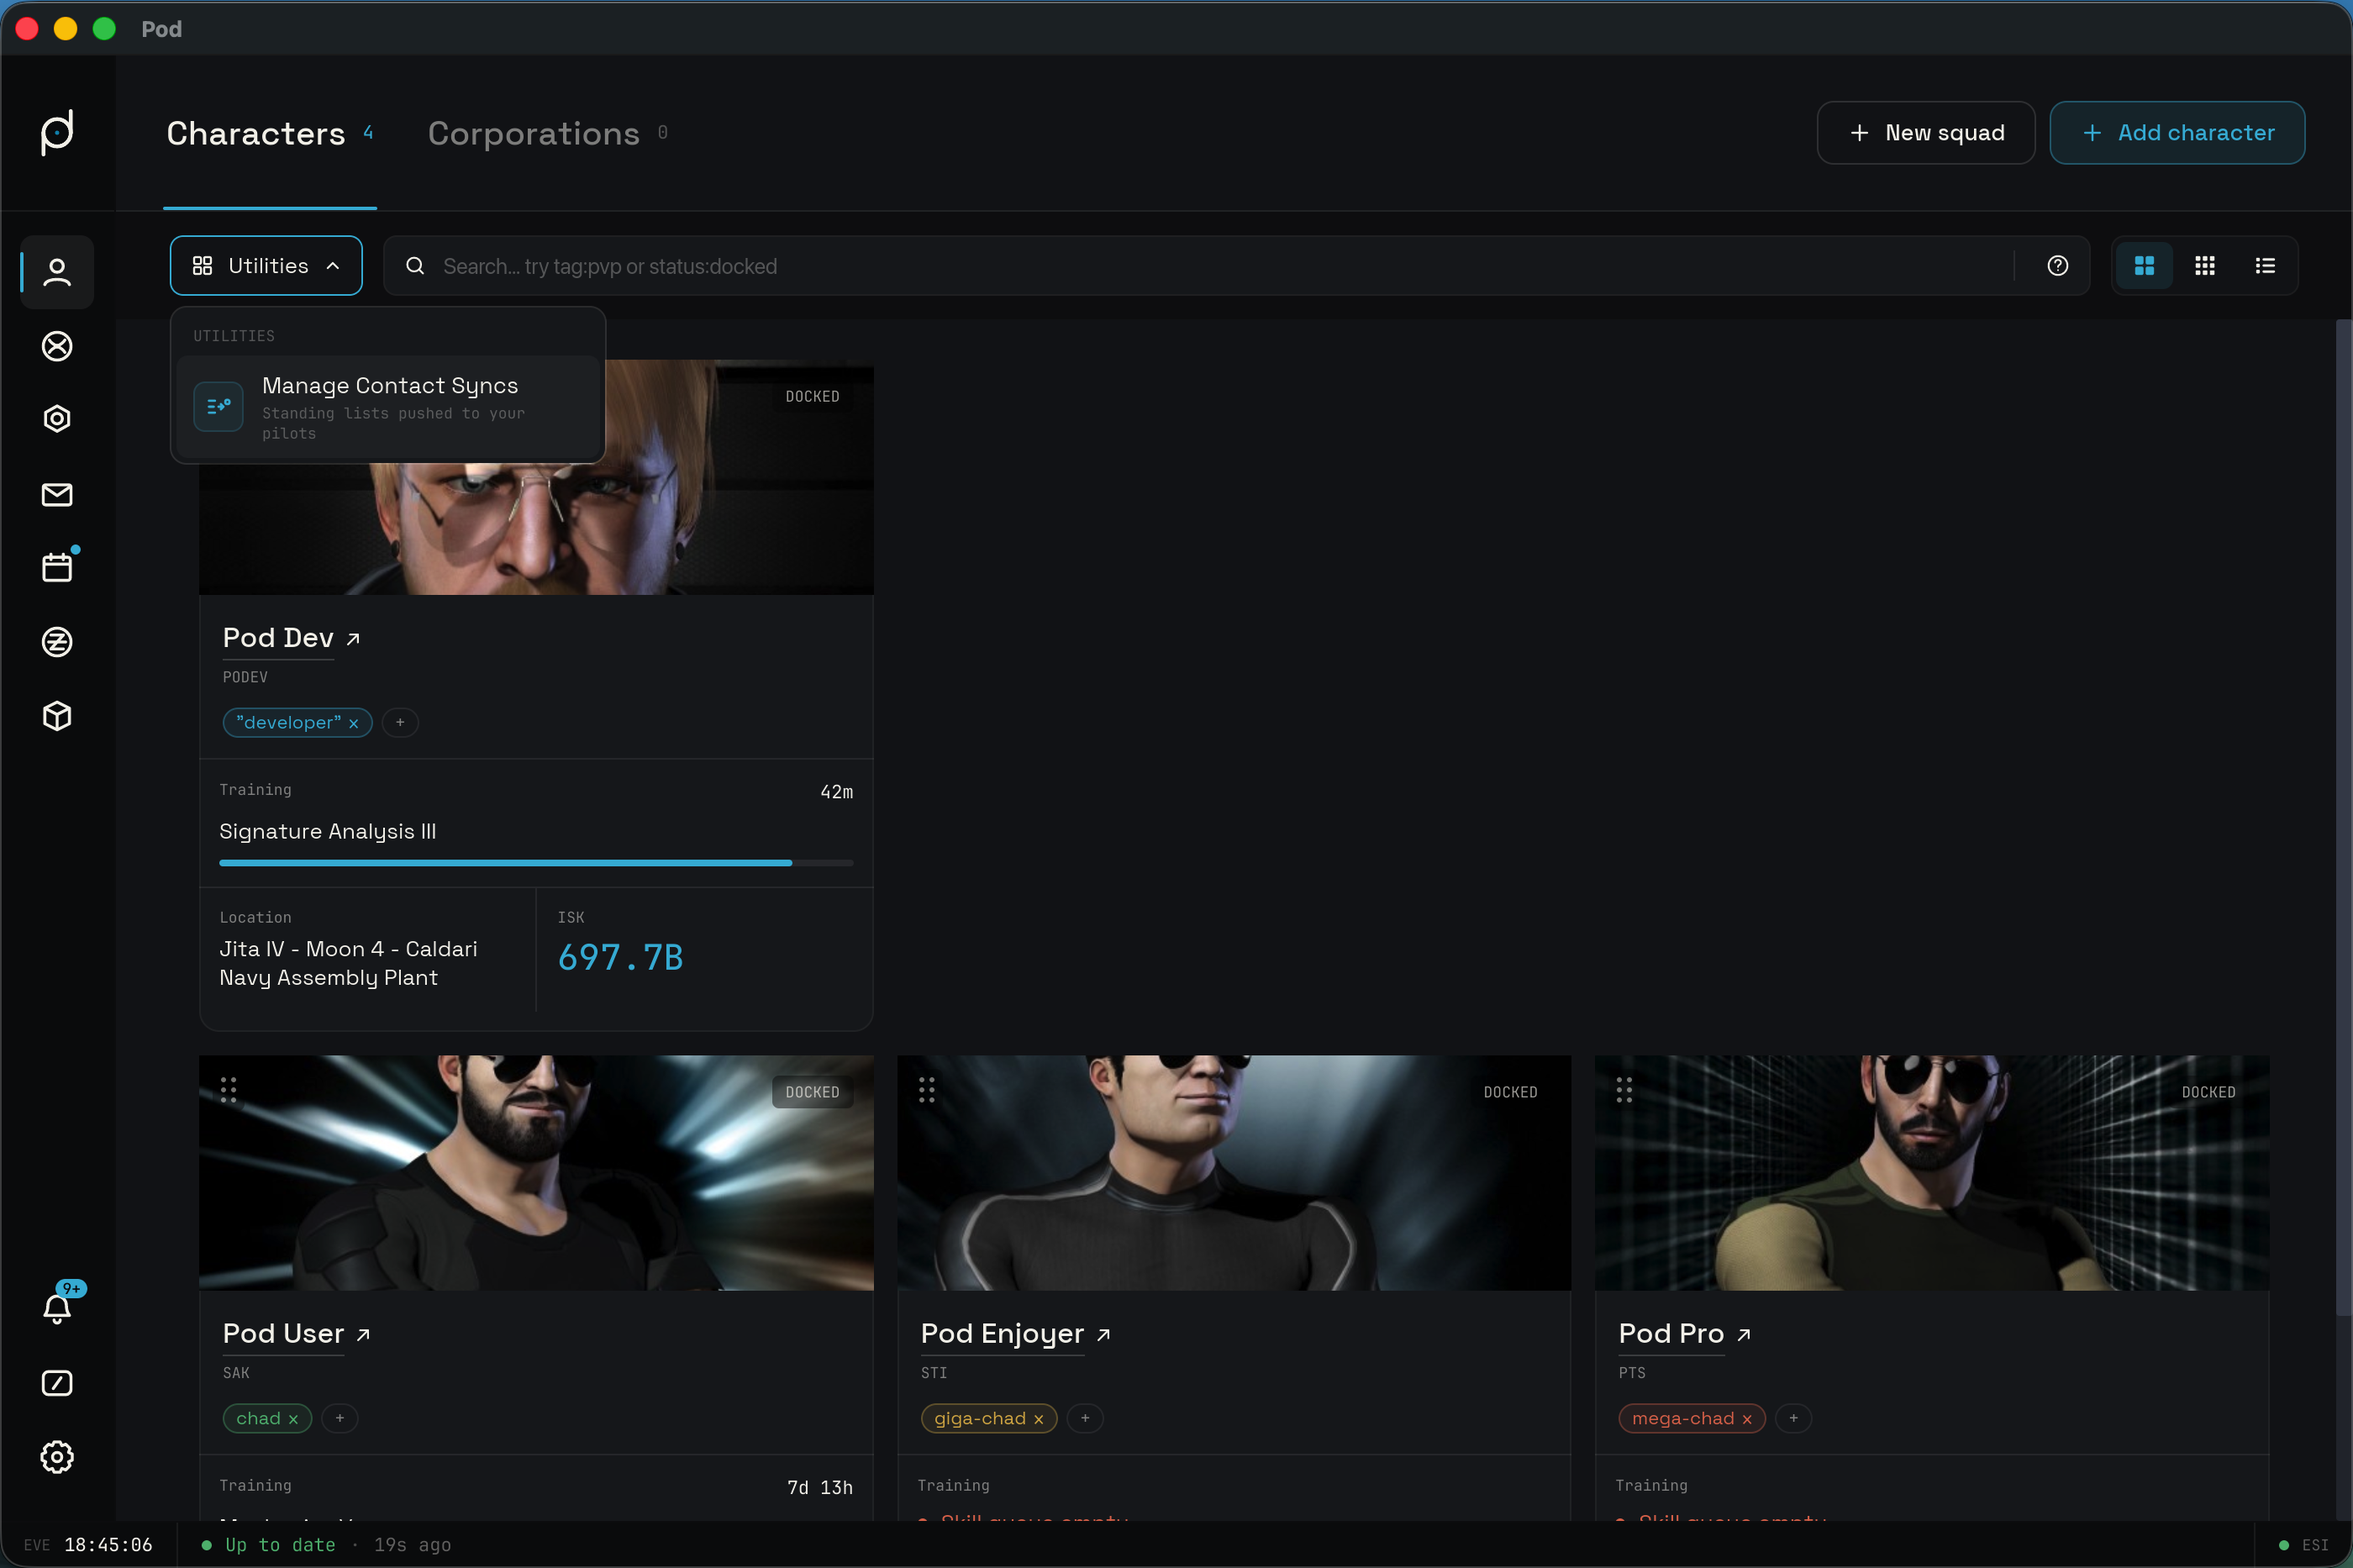
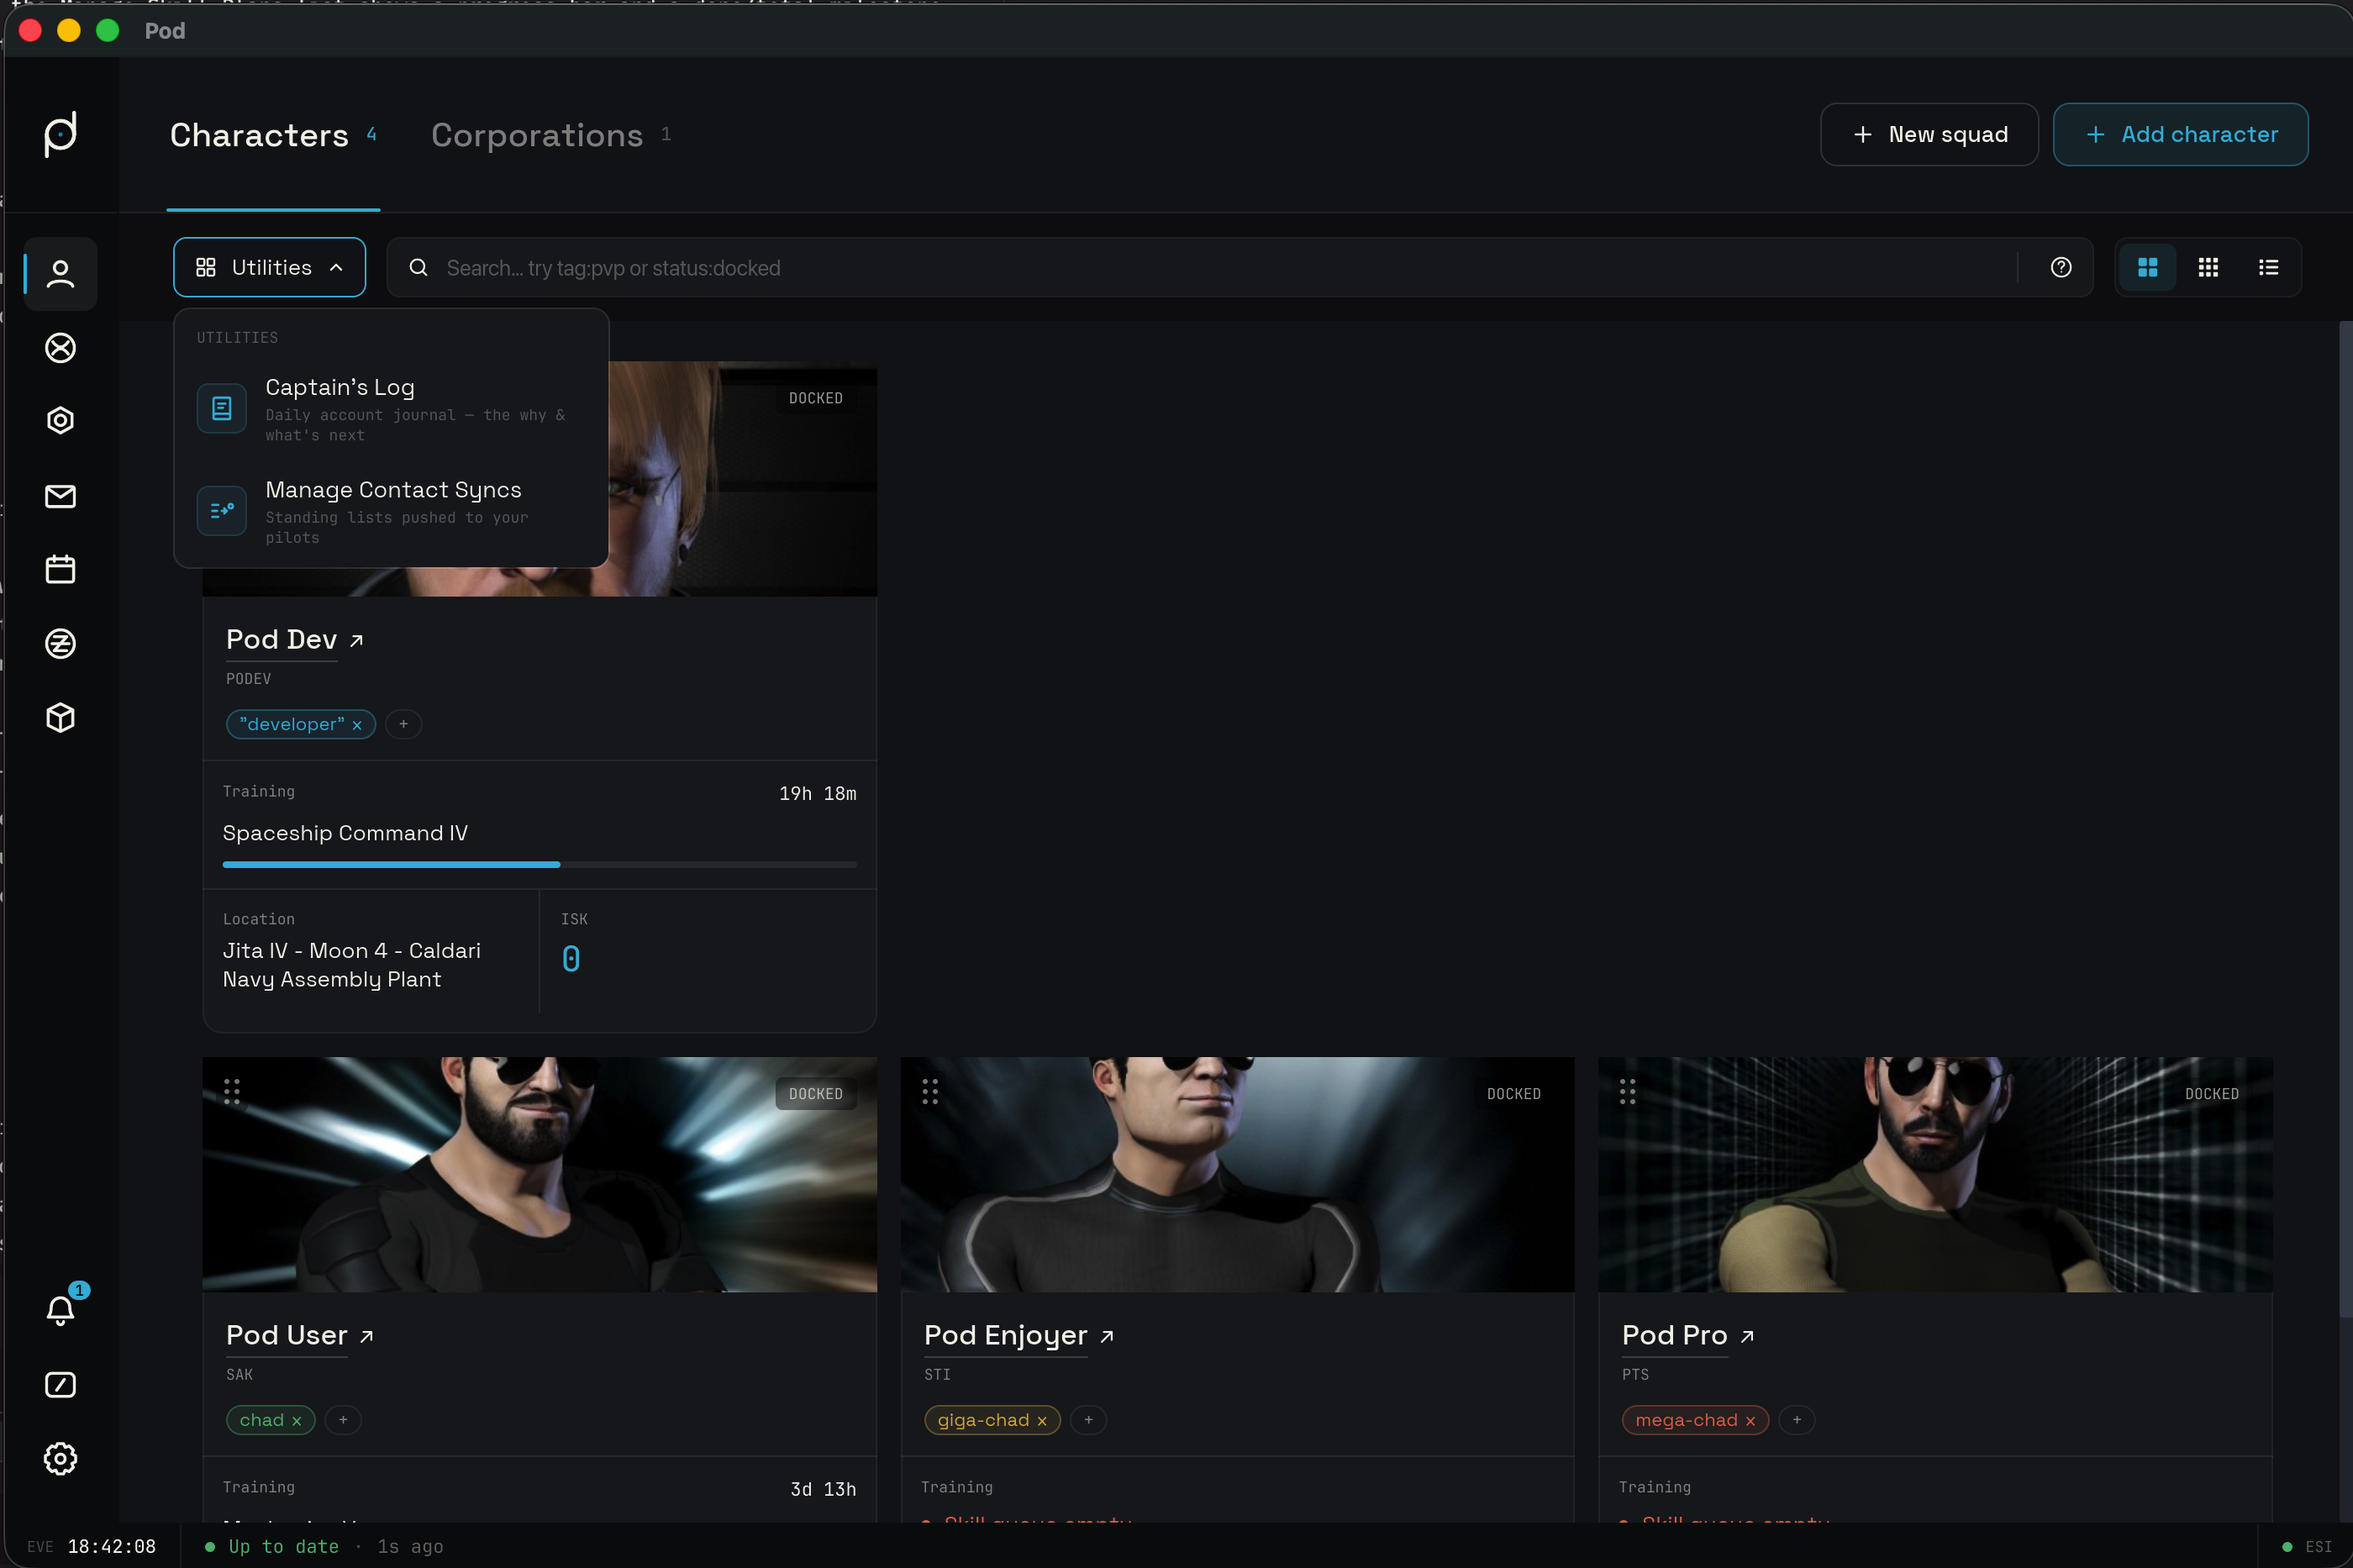
docs(marketing): document captains log entry and killmail report tabs in roster.md

diff --git a/web/marketing/content/roster.md b/web/marketing/content/roster.md
@@ -137,14 +137,21 @@ corporation contains "cobalt", `loc:jita` filters by location, `status:in-space`
 keeps undocked pilots, and `training:idle` keeps pilots with an empty queue. The
 help popover lists every key and your current tags as clickable chips.
 
+## Utilities
+
+The **Utilities** dropdown sits at the left of the search bar and gathers the
+roster-wide tools. It is always available. **Captain's Log** leads the menu, a
+daily account journal for recording what happened and what comes next, and it
+opens the [Captain's Log](/docs/captains-log/) window. **Manage Contact Syncs**
+follows it and appears once the Contacts feature is enabled.
+
+![Utilities dropdown](/docs/img/roster/utilities-dropdown.png)
+
 ## Contact Sync
 
 Contact Sync keeps a reusable standing list and pushes it onto the in-game
 contacts of the pilots you choose. Open it from the **Utilities** dropdown at the
-left of the search bar and pick **Manage Contact Syncs**. The Utilities dropdown
-appears once the Contacts feature is enabled.
-
-![Utilities dropdown](/docs/img/roster/utilities-dropdown.png)
+left of the search bar and pick **Manage Contact Syncs**.
 
 ### The sync list index
 
@@ -295,14 +302,16 @@ where the character struck last. An empty log reads **No killmails recorded**.
 #### Killmail detail
 
 Click a row to open the killmail detail. A colored bar and a **KILL** or **LOSS**
-badge sit beside the ship name, system, time, and killmail id.
+badge sit beside the ship name, system, time, and killmail id. Two tabs,
+**Overview** and **Report**, sit below the header.
 
 ![Killmail detail modal](/docs/img/roster/killmail-modal.png)
 
-The top row has two cards. The **Victim** card (titled **Pilot lost** on a loss)
-shows the portrait, name, corporation, and alliance, plus a **Ship** and
-**Damage taken** stat. The **Value** card shows the total ISK and a stacked bar
-split into **Destroyed** and **Dropped** with the ISK for each.
+The **Overview** tab holds the breakdown of the fight. The top row has two cards.
+The **Victim** card (titled **Pilot lost** on a loss) shows the portrait, name,
+corporation, and alliance, plus a **Ship** and **Damage taken** stat. The
+**Value** card shows the total ISK and a stacked bar split into **Destroyed** and
+**Dropped** with the ISK for each.
 
 Below, the **Fitting & cargo** panel lists items grouped by slot: **High
 power**, **Medium power**, **Low power**, **Rigs**, **Subsystems**, **Drone
@@ -311,6 +320,20 @@ as destroyed or dropped, with its icon, name, quantity, and ISK. The **Involved
 parties** panel lists every attacker with corporation and ship and a damage
 share. The pilot who landed the kill carries a **FINAL BLOW** chip and a
 highlighted row.
+
+##### The Report tab
+
+The **Report** tab is an after action report you fill in while the fight is
+fresh. It opens with a short prompt, worded for a kill or a loss, above a form.
+The **Outcome** control picks one of **Went well**, **Went poorly**, or **Lesson
+learned**. **What happened?** and **Would you do anything differently?** take
+free text, and **Key takeaway (one line)** is a single line to remember. **Save
+report** stores it and **Cancel** backs out. A saved report reads back under
+**What happened**, **Would do differently**, and **Key takeaway**, stamped
+**Logged** with the time, and **Edit** reopens the form.
+
+You can jump straight here from a new killmail notification: its **Write
+debrief** action opens the killmail detail on the **Report** tab.
 
 ### Notifications
 
